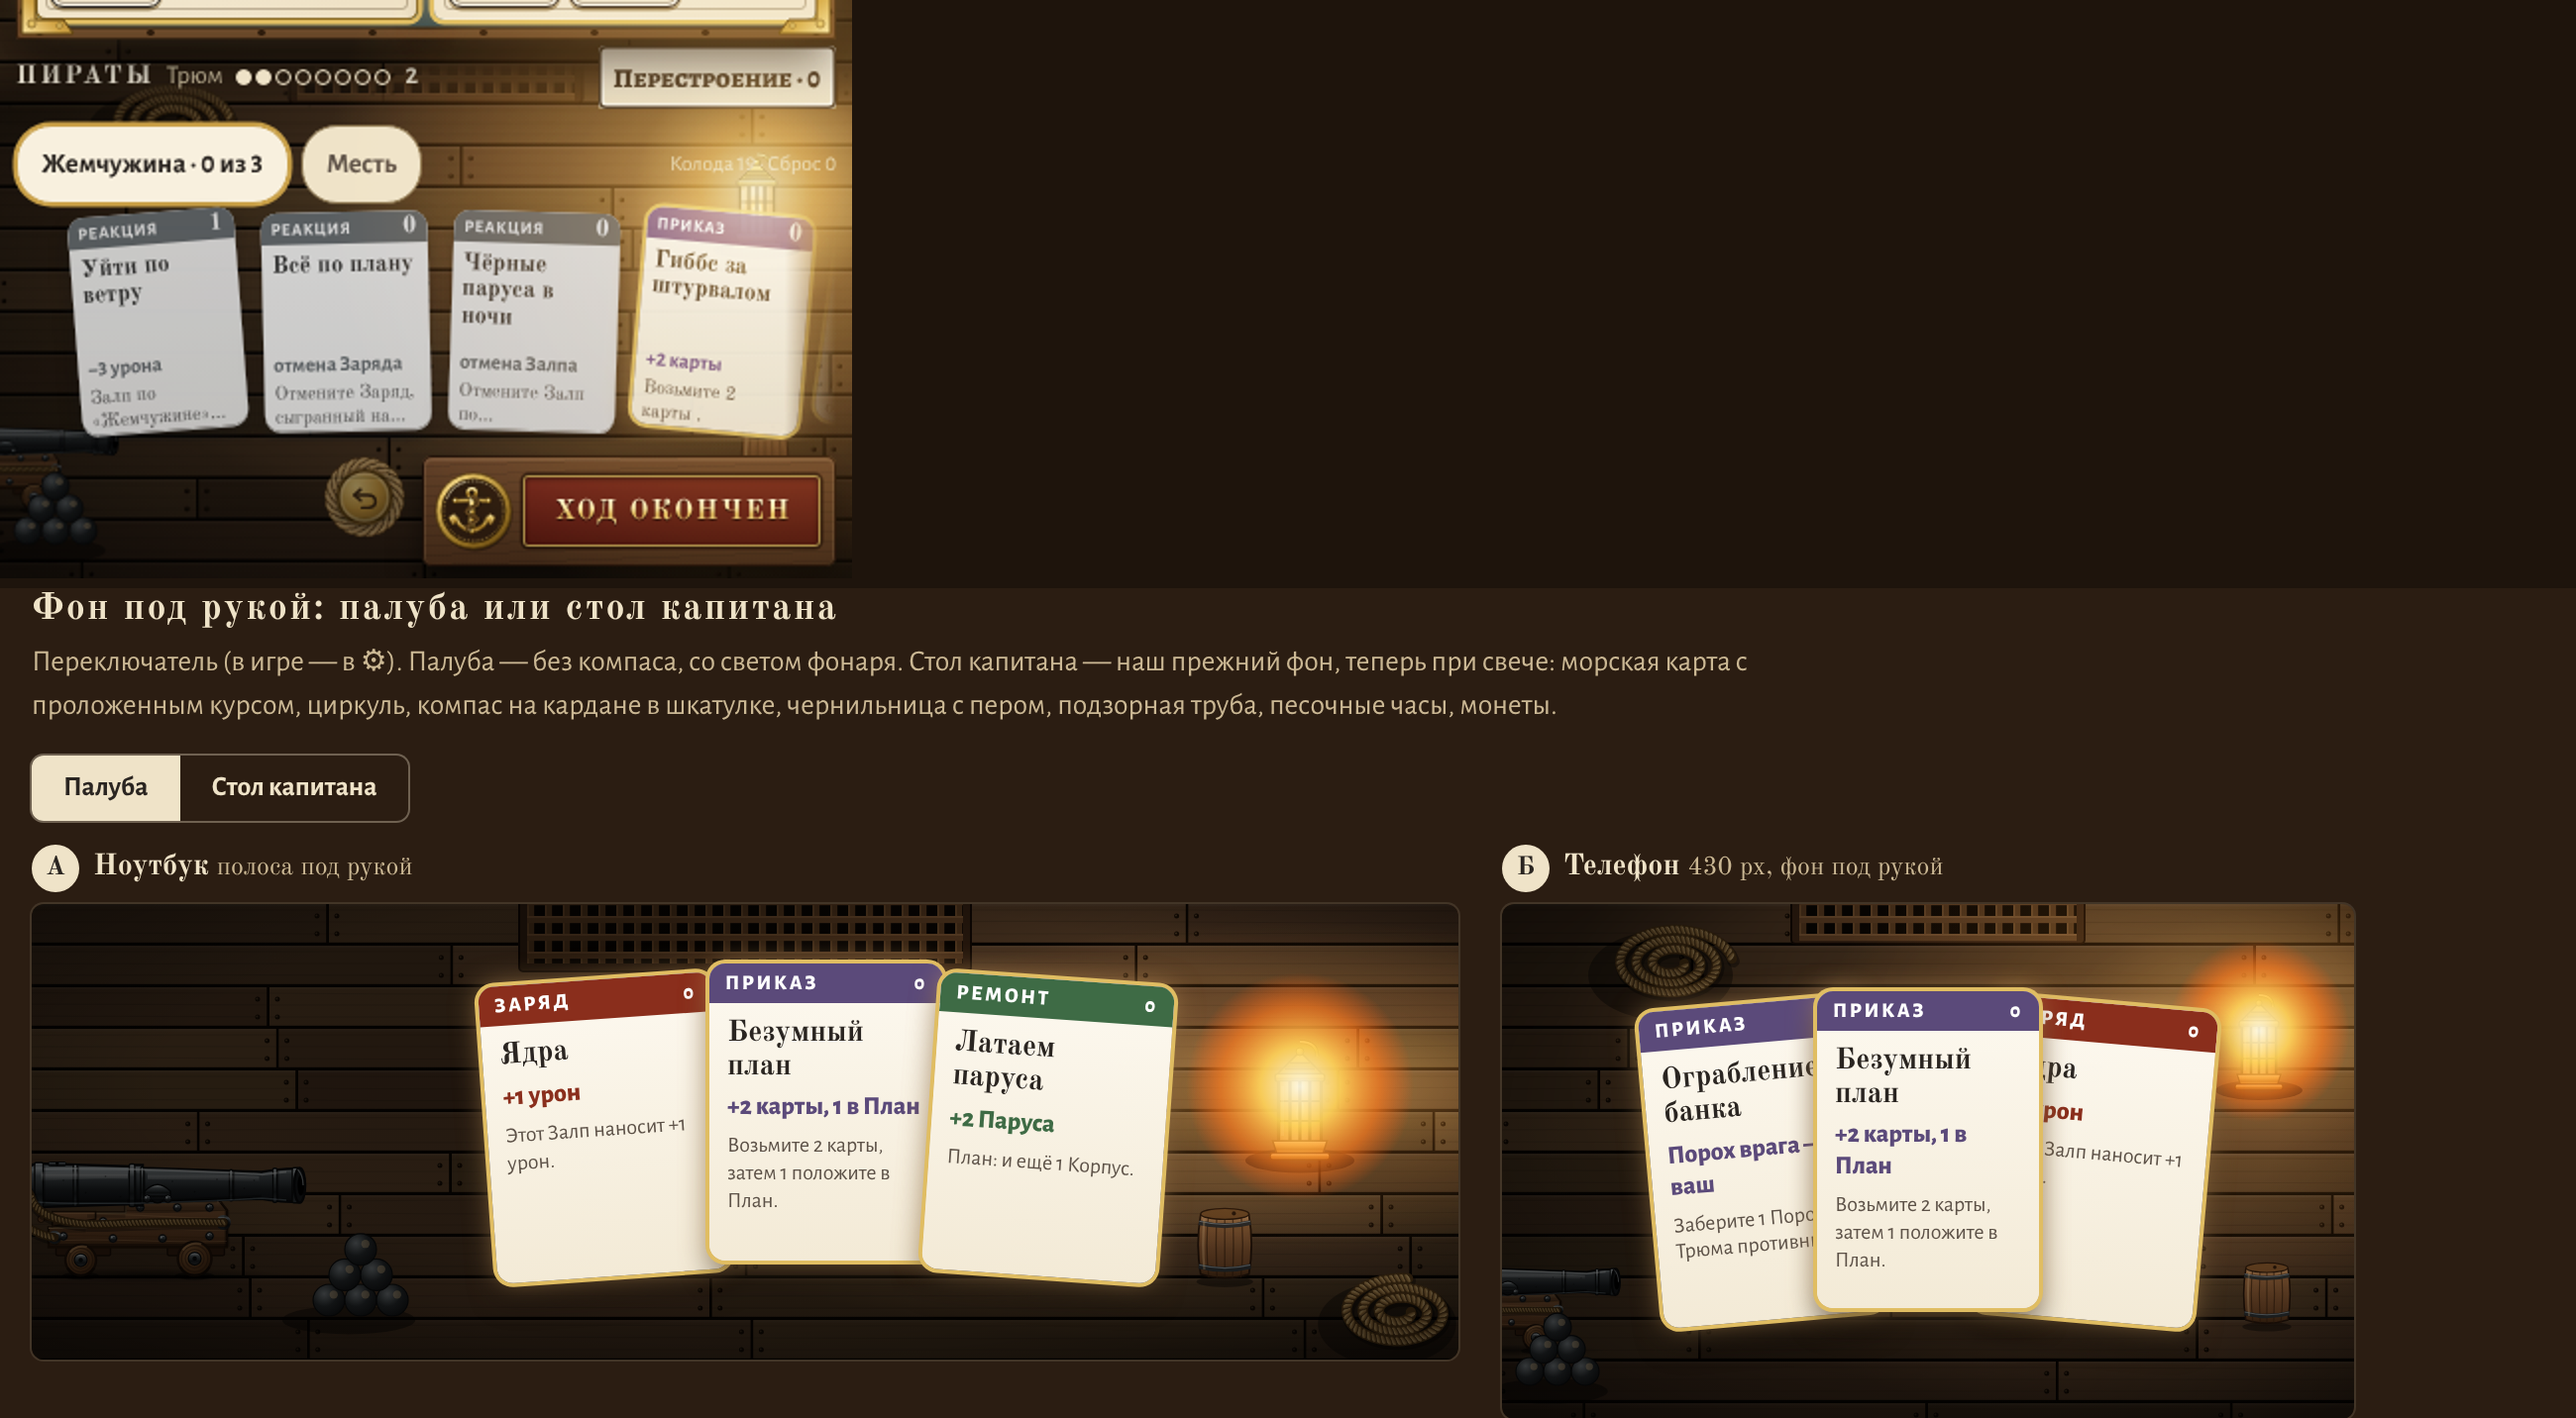
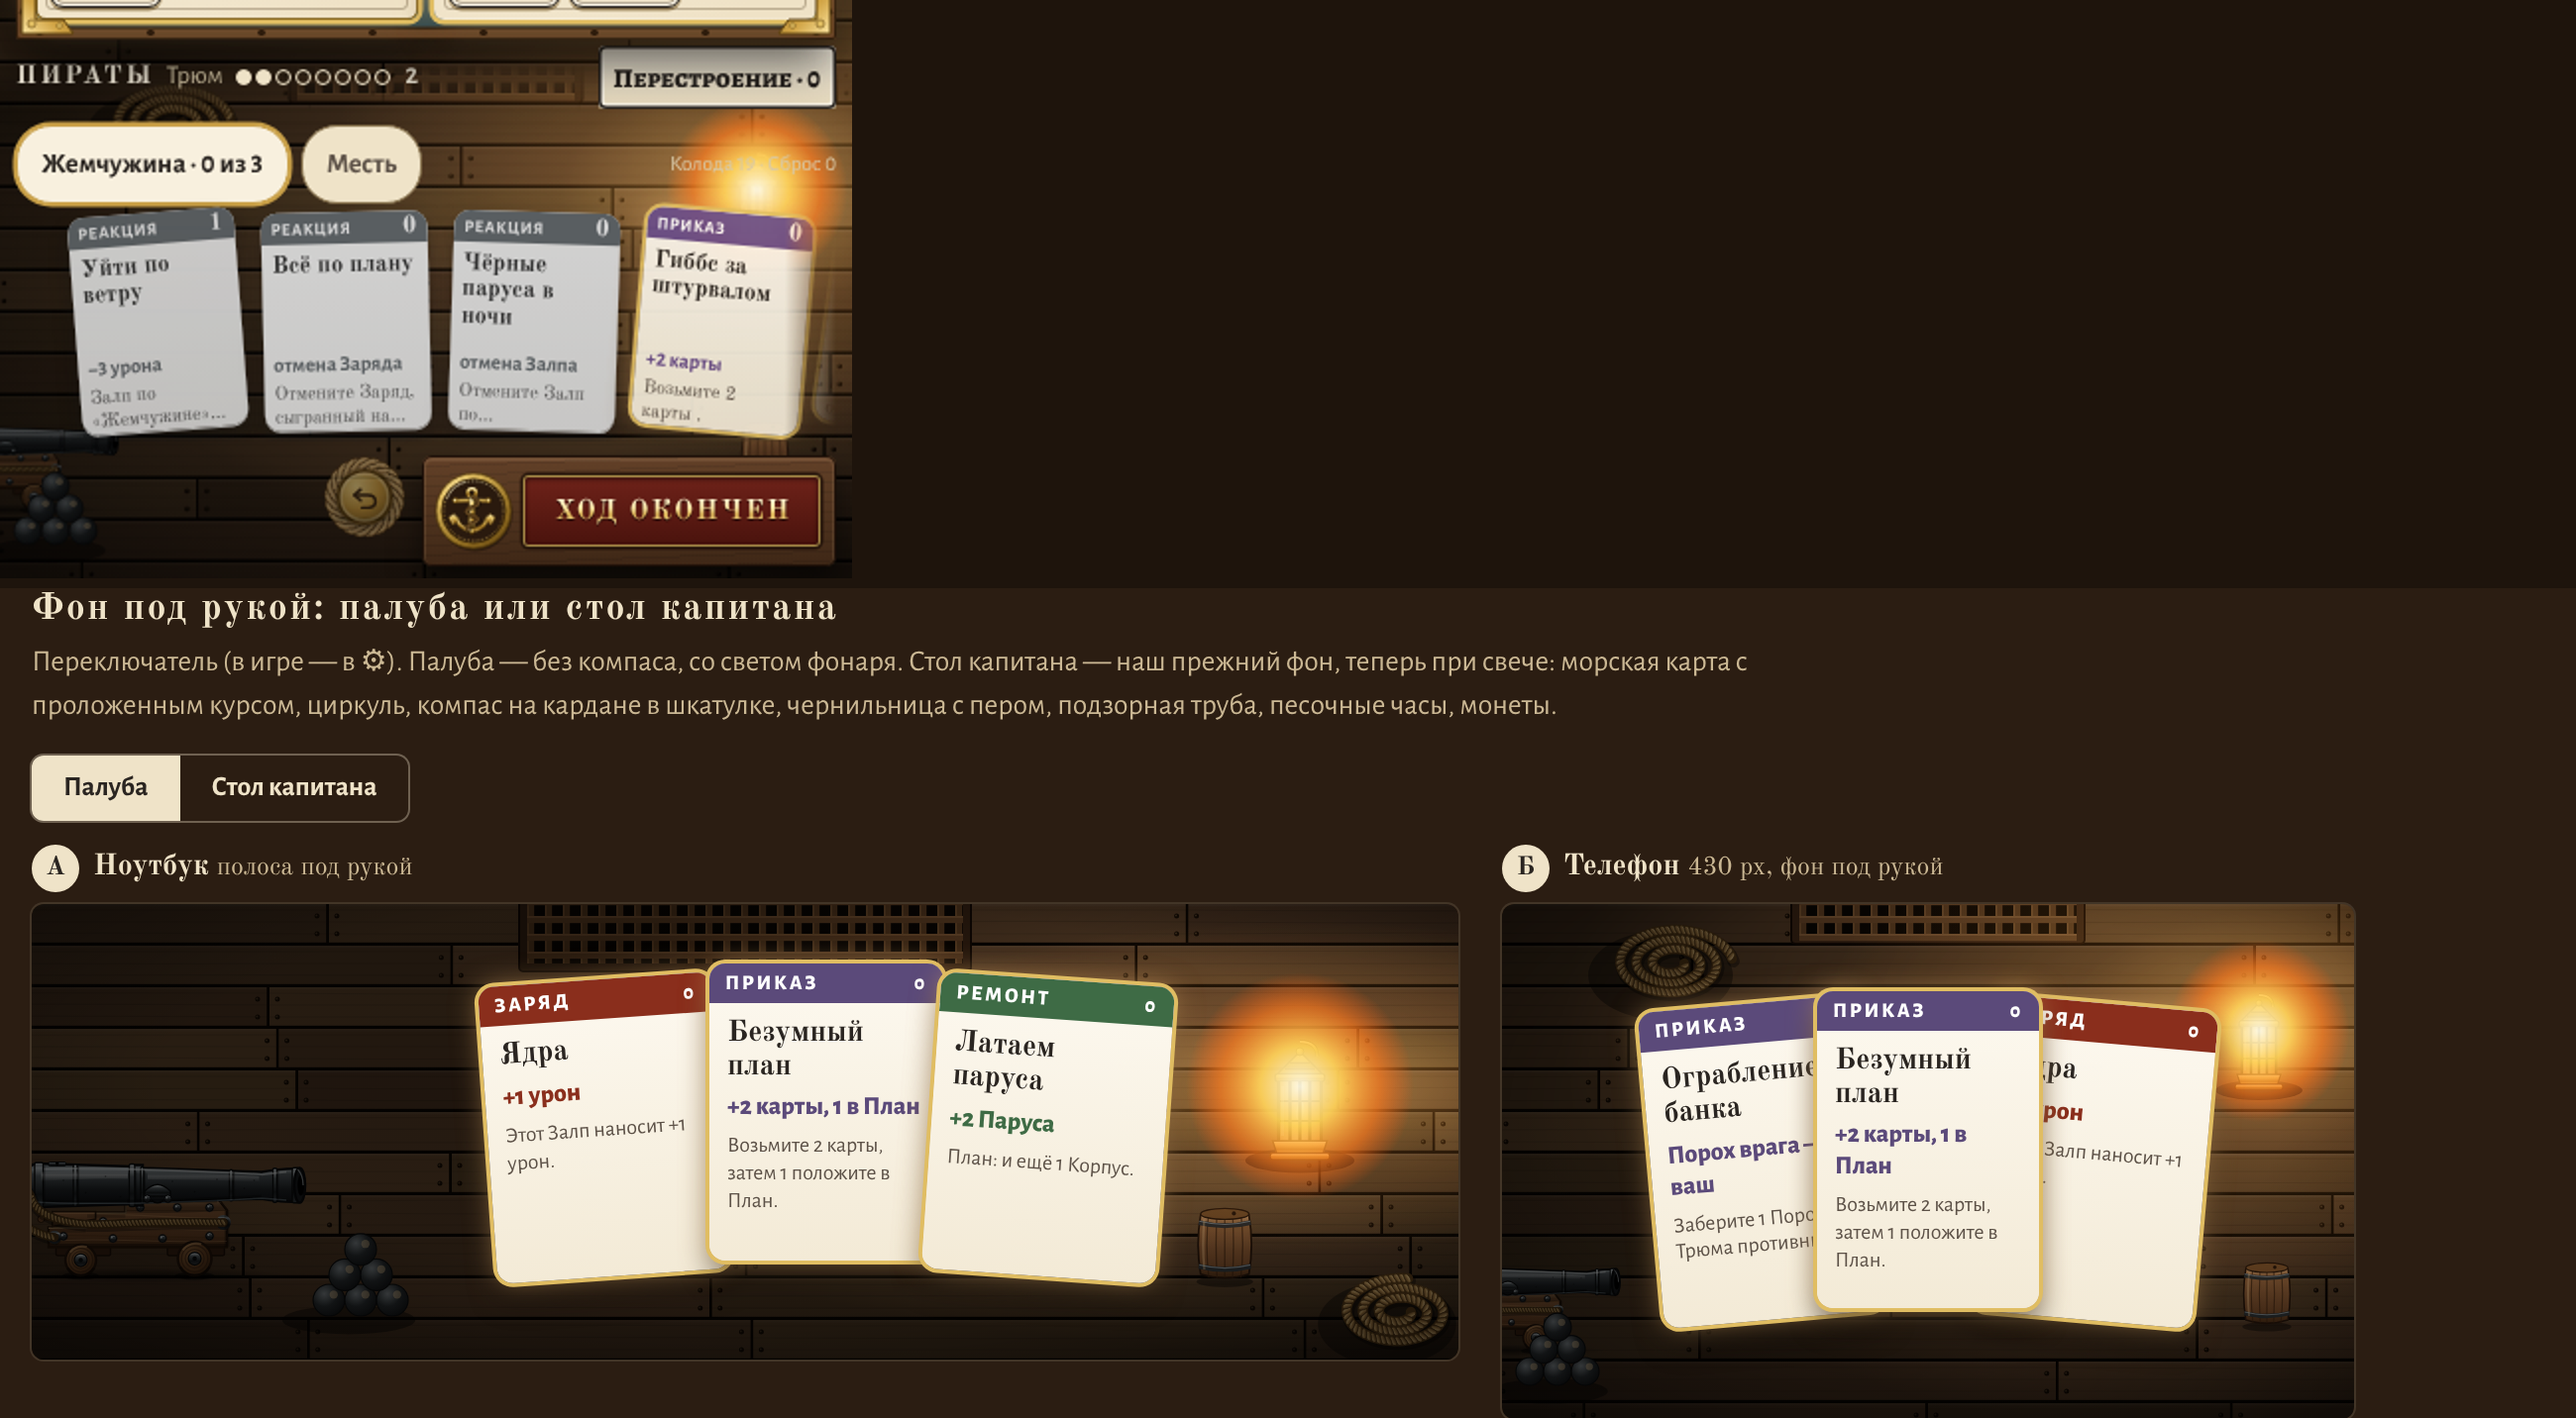
rig: (g) «Палуба»: the darkness, the light and the flare of the lantern with the values of deckScene3 over the planks of the whole window; the playable cards — the gold rim and the warm glow of handCards
Claude-Session: https://claude.ai/code/session_013w1DmSFp9mCkPiG2Sj6PTK

Changed region(s): [[0.1869, 0.0, 0.3427, 0.338]]

diff --git a/src/ui/game/TableThings.tsx b/src/ui/game/TableThings.tsx
@@ -34,11 +34,13 @@ interface Placed extends Box {
 
 /**
  * The deck scene of A5Rig, «Фон под рукой» (deckScene3 with the parameters of the reference, the very SVG — art/rig/deck-scene-*.svg):
- * A — a laptop, 720×230, Б — a phone, 430×260; where its lantern burns and how far its light reaches (viewBox px).
+ * A — a laptop, 720×230, Б — a phone, 430×260; where its lantern burns, how far its light reaches (R) and the scale of the lantern (ls),
+ * all in viewBox px. The darkness and the light of the lantern and the flare at its glass are not in the picture: they are the
+ * layers .deck-dark / .deck-light / .deck-flare over the planks and the props (under the cards), with the values of the reference.
  */
 const SCENE = {
-  laptop: { src: sceneLaptop, w: 720, h: 230, lx: 640, ly: 92, r: 260 },
-  phone: { src: scenePhone, w: 430, h: 260, lx: 382, ly: 64, r: 220 },
+  laptop: { src: sceneLaptop, w: 720, h: 230, lx: 640, ly: 92, r: 260, ls: 1.25 },
+  phone: { src: scenePhone, w: 430, h: 260, lx: 382, ly: 64, r: 220, ls: 1 },
 } as const;
 /** The card of the hand in the reference is 150 px high: the scene is scaled as the cards of the game are. */
 const REF_CARD_H = 150;
@@ -99,6 +101,27 @@ function deckPlace(game: HTMLElement): DeckPlace | null {
   const k = Math.min(card.getBoundingClientRect().height / REF_CARD_H, (g.height - (sea.t + sea.h)) / SCENE.laptop.h, room / SCENE.laptop.w);
   if (k <= 0.3) return null;
   return { kind: 'laptop', k, l: Math.max(holdRight + 8, log.l - 8 - SCENE.laptop.w * k), t: g.height - SCENE.laptop.h * k };
+}
+
+/**
+ * The light of the lantern of the deck scene (deckScene3): its gradients are objectBoundingBox ones on the scene's W×H rect, so their
+ * circles are ellipses squeezed by H/W — the same here, and they go on past the scene over the planks of the whole window.
+ * «…d»: #000 0 → .3 at .55 → .62 at the edge, radius 1.6R, a normal layer; «…l»: #ffb24a .5 → #ff9a30 .16 at .45 → #ff8a20 0,
+ * radius R, screen; the flare: r = 46·ls with gFlash, opacity .16, flickering (.flick).
+ */
+function DeckLight({ d, sc }: { d: DeckPlace; sc: (typeof SCENE)[keyof typeof SCENE] }) {
+  const x = d.l + sc.lx * d.k,
+    y = d.t + sc.ly * d.k,
+    sq = sc.h / sc.w;
+  const at = (r: number) => `${r * d.k}px ${r * d.k * sq}px at ${x}px ${y}px`;
+  const fr = 46 * sc.ls * d.k;
+  return (
+    <>
+      <i className="deck-dark" style={{ background: `radial-gradient(${at(1.6 * sc.r)}, rgba(0,0,0,0), rgba(0,0,0,.3) 55%, rgba(0,0,0,.62))` }} />
+      <i className="deck-light" style={{ background: `radial-gradient(${at(sc.r)}, rgba(255,178,74,.5), rgba(255,154,48,.16) 45%, rgba(255,138,32,0))` }} />
+      <i className="deck-flare" data-testid="lantern-light" style={{ left: x - fr, top: y - fr, width: 2 * fr, height: 2 * fr }} />
+    </>
+  );
 }
 
 /** R — right of the cards of the hand up to the log column (a laptop): the inkwell and the candle of the captain's table. */
@@ -193,9 +216,7 @@ export function TableBackdrop({ look }: { look: 'deck' | 'table' }) {
       {placed.map((p) => (
         <img key={p.key} className="prop" data-prop={p.key} src={PROPS[p.key].src} alt="" draggable={false} style={{ left: p.l, top: p.t, width: p.w, height: p.h }} />
       ))}
-      {deck && sc && look === 'deck' && (
-        <i className="lantern-light" data-testid="lantern-light" style={{ left: deck.l + sc.lx * deck.k, top: deck.t + sc.ly * deck.k, width: 2 * sc.r * deck.k, height: 2 * sc.r * deck.k }} />
-      )}
+      {deck && sc && look === 'deck' && <DeckLight d={deck} sc={sc} />}
       {candlePlace && look === 'table' && <i className="lantern-light candle" style={{ left: candlePlace.l + candlePlace.w / 2, top: candlePlace.t + candlePlace.h * 0.25, width: 260, height: 260 }} />}
     </div>
   );

diff --git a/e2e/table.spec.ts b/e2e/table.spec.ts
@@ -532,11 +532,13 @@ for (const look of ['deck', 'table'] as const) {
       await expect(page.getByTestId('game')).toBeVisible();
       await expect(page.getByTestId('backdrop')).toHaveClass(new RegExp(`look-${look}`));
       if (look === 'deck') {
-        // no «Вещи на столе» (compass, coins, wheel…) on the deck; the planks are a repeating tile, not one stretched picture
+        // no «Вещи на столе» (compass, coins, wheel…) on the deck; the planks are a repeating tile, not one stretched picture;
+        // the scene of A5Rig lies under the hand, its lantern flare is drawn
         await expect(page.locator('[data-thing]')).toHaveCount(0);
-        const bg = await page.locator('.deck-bg').evaluate((e) => getComputedStyle(e).backgroundRepeat + ' ' + getComputedStyle(e).backgroundSize);
+        const bg = await page.locator('.deck-bg').evaluate((e) => getComputedStyle(e).backgroundRepeat);
         expect(bg).toContain('repeat');
-        expect(bg).toContain('720px');
+        await expect(page.getByTestId('deck-scene')).toBeVisible();
+        await expect(page.getByTestId('lantern-light')).toHaveCount(1);
       } else {
         await expect(page.locator('.table-things')).toHaveCount(1);
       }
@@ -551,15 +553,16 @@ for (const look of ['deck', 'table'] as const) {
             const b = e.getBoundingClientRect();
             if (b.width > 0 && b.height > 0 && getComputedStyle(e).display !== 'contents') panels.push([q, box(e)]);
           });
-        const props = Array.from(document.querySelectorAll('.prop')).map((e) => [e.getAttribute('data-prop')!, box(e)] as const);
+        const props = Array.from(document.querySelectorAll('.prop, .deck-scene')).map((e) => [e.getAttribute('data-prop'), box(e)] as const);
         return { panels, props, iw: innerWidth, ih: innerHeight };
       });
-      expect(r.props.length, 'some props found a free place').toBeGreaterThan(1);
+      expect(r.props.length, 'the scene or the props found a free place').toBeGreaterThan(0);
       const meet = (a: { l: number; r: number; t: number; b: number }, b: { l: number; r: number; t: number; b: number }) => a.l < b.r && b.l < a.r && a.t < b.b && b.t < a.b;
       const bad: string[] = [];
       for (const [name, p] of r.props) {
         if (p.l < 0 || p.t < 0 || p.r > r.iw || p.b > r.ih) bad.push(`${name} outside the window`);
-        for (const [q, b] of r.panels) if (meet(p, b)) bad.push(`${name} ∩ ${q}`);
+        // the scene lies under the cards of the hand (they are on it, as in the reference); nothing lies under the rest
+        for (const [q, b] of r.panels) if (meet(p, b) && !(name === null && q === '.hand-cards .hcard')) bad.push(`${name} ∩ ${q}`);
       }
       expect(bad).toEqual([]);
       await page.screenshot({ path: `docs/screenshots/rig/g-e2e-${look}-${v.w}x${v.h}.png` });

diff --git a/src/ui/game/game.css b/src/ui/game/game.css
@@ -3662,12 +3662,12 @@ button.star::before {
     box-shadow 0.18s,
     filter 0.18s;
 }
-/* playable now: a warm glow (.glow of A5Table.html); not playable — grey (.hcard.off) */
+/* playable now: a gold rim and a warm glow (handCards of A5Rig, rig3_tpl.html); not playable — grey (.hcard.off) */
 .hand-cards > .hcard:not(.off):not(.back) {
   box-shadow:
-    0 0 0 2px var(--brass-hi),
-    0 0 16px rgba(255, 196, 120, 0.6),
-    0 6px 12px rgba(0, 0, 0, 0.45);
+    0 0 0 2px #e0bd62,
+    0 0 14px rgba(255, 196, 120, 0.5),
+    0 8px 14px rgba(0, 0, 0, 0.5);
 }
 .hand-cards > .hcard.chosen {
   box-shadow:
@@ -4212,13 +4212,46 @@ button.star::before {
   inset: 0;
   background-repeat: repeat;
 }
-.deck-bg::after {
-  content: '';
+/* the darkness, the light and the flare of the lantern (TableThings.tsx DeckLight): over the planks and the scene, under the board */
+.deck-dark,
+.deck-light {
   position: absolute;
   inset: 0;
-  background:
-    radial-gradient(ellipse 80% 75% at 50% 45%, rgba(0, 0, 0, 0) 40%, rgba(0, 0, 0, 0.35)),
-    rgba(0, 0, 0, 0.42);
+}
+.deck-light {
+  mix-blend-mode: screen;
+}
+.deck-flare {
+  position: absolute;
+  border-radius: 50%;
+  background: radial-gradient(circle closest-side, #fffbe6, #ffd25a 35%, rgba(255, 122, 30, 0.7) 70%, rgba(255, 90, 16, 0));
+  /* the circle has opacity=".16", but .flick of A5Rig animates the opacity itself (.94 → 1 → .88 → .97), so the flare that is seen
+     in the reference is nearly opaque: the same here; still — .94 */
+  opacity: 0.94;
+  animation: flick 1.3s ease-in-out infinite;
+}
+@keyframes flick {
+  0%,
+  100% {
+    opacity: 0.94;
+  }
+  30% {
+    opacity: 1;
+  }
+  55% {
+    opacity: 0.88;
+  }
+  80% {
+    opacity: 0.97;
+  }
+}
+.fx-simple .deck-flare {
+  animation: none;
+}
+@media (prefers-reduced-motion: reduce) {
+  .deck-flare {
+    animation: none;
+  }
 }
 .deck-scene {
   position: absolute;
